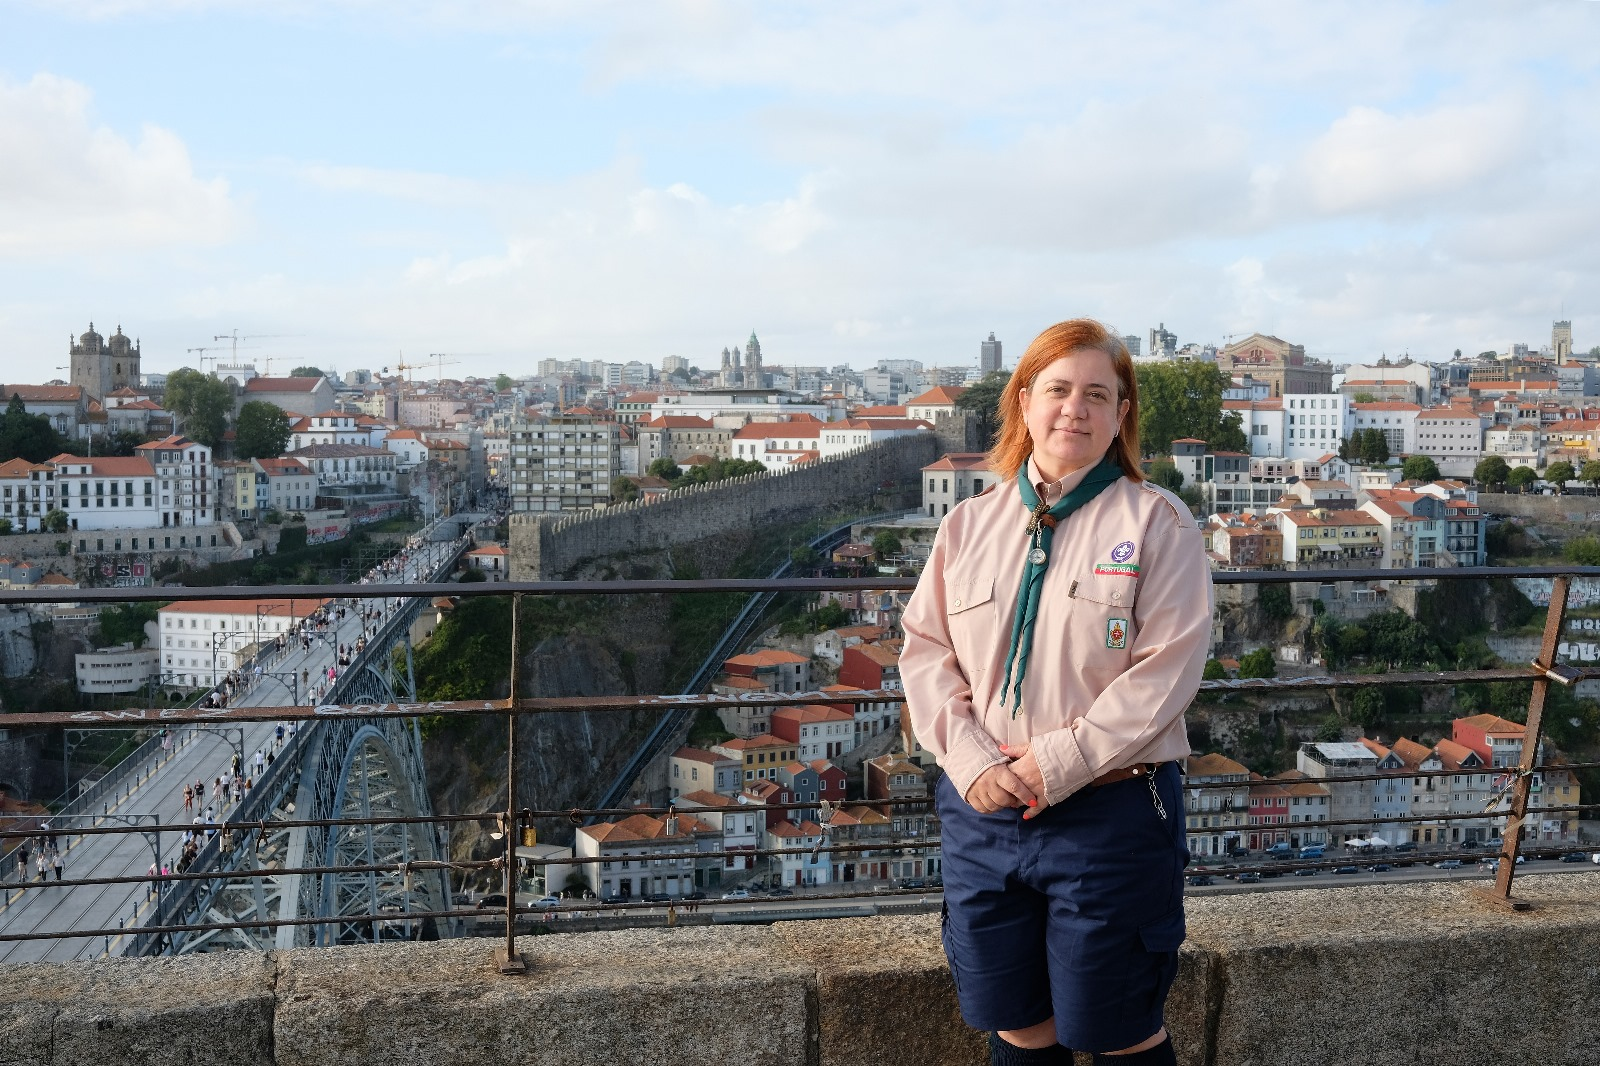
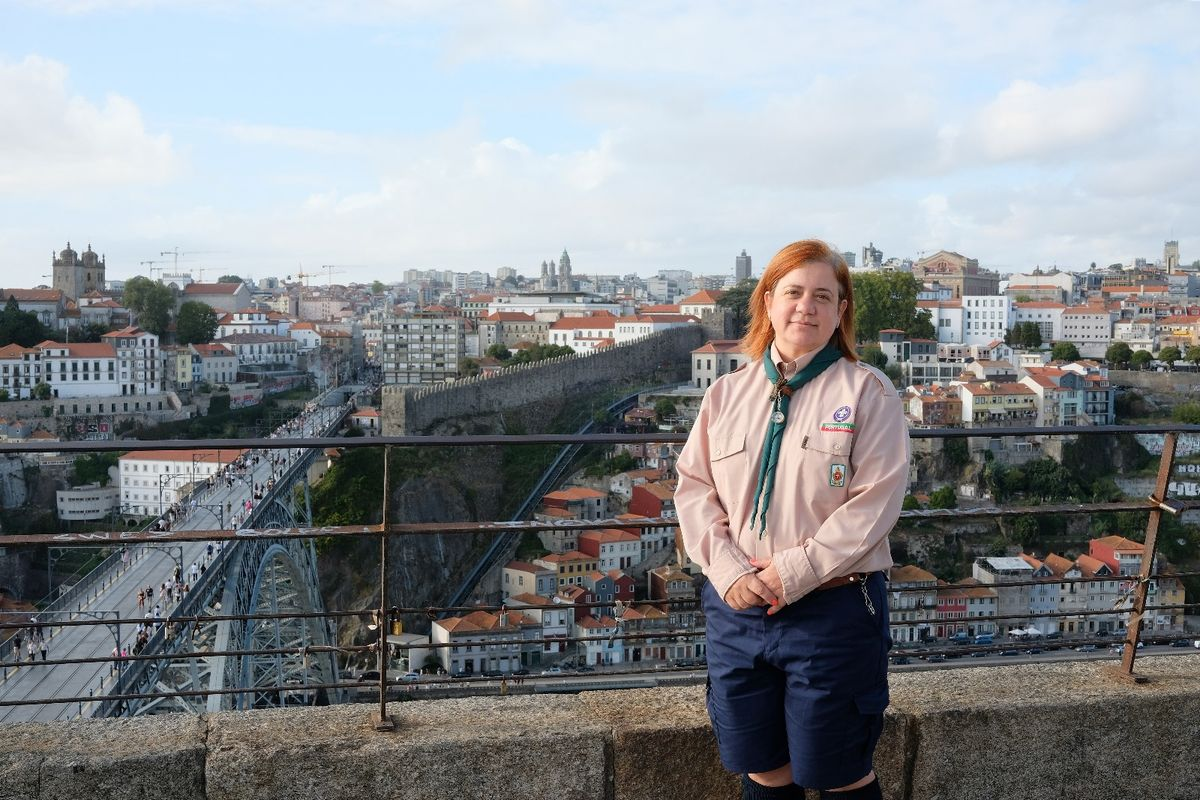
Fix image processing error and optimize images for GitHub Pages

diff --git a/astro.config.ts b/astro.config.ts
@@ -75,6 +75,9 @@ export default defineConfig({
 
   image: {
     domains: ['cdn.pixabay.com'],
+    service: {
+      entrypoint: 'astro/assets/services/sharp'
+    }
   },
 
   markdown: {
